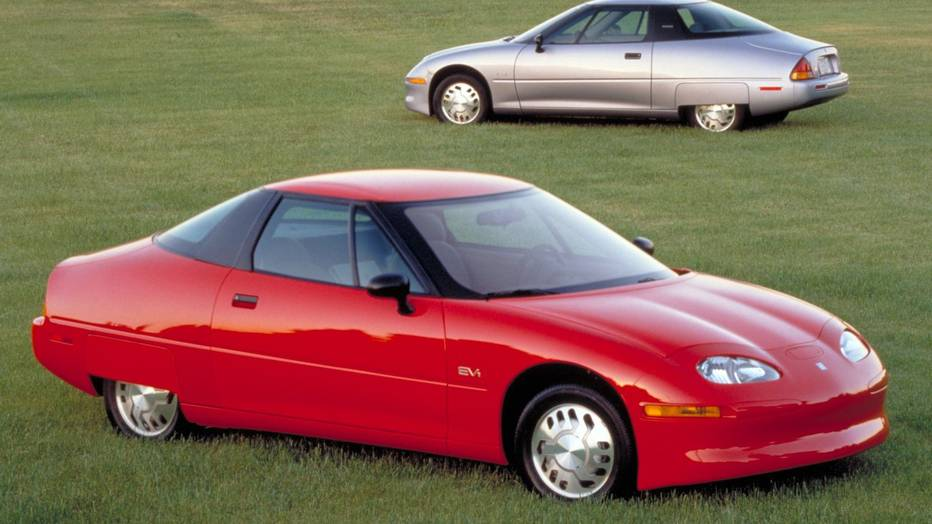
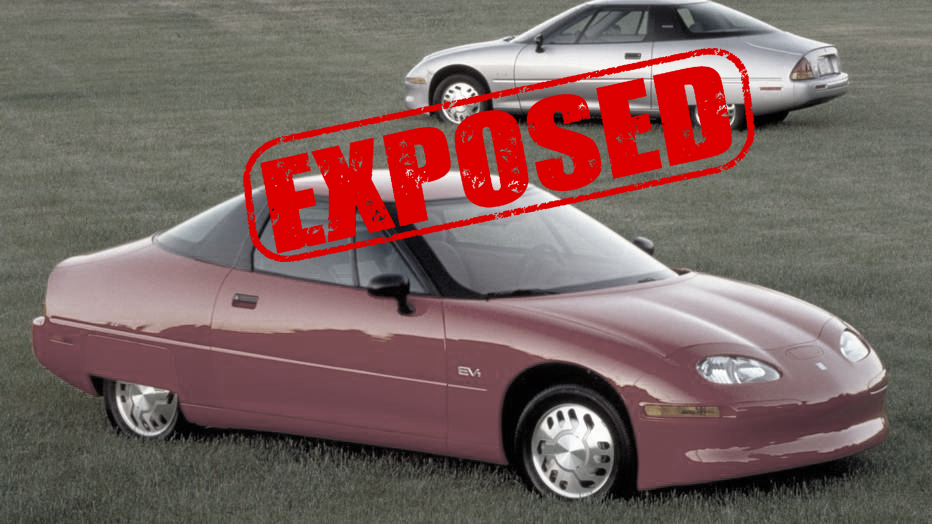
JIC 430
Snow is still afoot

diff --git a/root/pages/cancer.html b/root/pages/cancer.html
@@ -14,7 +14,7 @@
 	</header>
 	<script src="../js/parallax.js"></script>
 		<div id="content">
-			<h1 class="conspiracyHeader">FEMA Concentration Camps</h1>
+			<h1 class="conspiracyHeader">Electric Car Suppression</h1>
 		<p>Electric Cars were originally the most popular cars on the market in the early days. However, with the rise (and lowering price) of oil, the car was phased out. However, in California in the early 1990s the electric car was brought back and forcefully destroyed.</p>
 		<p>The electric car technology and other "non-gasoline" or "green" technology is being suppressed by oil companies because of the large fortune they are making off of petroleum and gasoline.</p>
 		<p>In the early 90s General Motors began developing the EV1, an electric car. When the the California Air Research Board (C.A.R.B.) found out about it they put a law in place forcing car companies to make 5% of their cars electric. This would gradually be raised up to 25% over many years. All companies followed GM's lead. Ford released the Th!nk and other companies, including Toyota, released electric cars as well. The EV1 became mildly popular, with celebrities such as Tom Hanks and Mel Gibson leasing them. They began to get a waiting list for the car. GM would then contact those on the list and tell them all of the limitations of the cars, something most retailers and car manufacturers would never do. And after a strainful wait, they got to lease the car; there was no option to buy it outright. The advertising campaign was small and less than great. A petition, initiated because a section of utility bills were going to pay for Charging Stations, was being made by Oil Companies. Strangely enough, General Motors and several other companies sued C.A.R.B. for making the law forcing them to make the cars they already were making. Llyod president of the C.A.R.B., an environmentalist, took away the law citing Hydrogen fuel as the way of the future. All companies began viciously destroying all the electric cars they built and not letting any of their customers buy them. All the EV1's were destroyed by General Motors except for several which were deactivated and sent to museums.</p>

diff --git a/root/pages/capricorn.html b/root/pages/capricorn.html
@@ -1,7 +1,7 @@
 <!DOCTYPE html>
 <html>
 <head>
-	<title>Jesus Had a Wife and Kids</title>
+	<title>Jesus Had a Wife and Child</title>
 	<script src="https://code.jquery.com/jquery-3.3.1.min.js"
   integrity="sha256-FgpCb/KJQlLNfOu91ta32o/NMZxltwRo8QtmkMRdAu8="
   crossorigin="anonymous"></script>
@@ -14,10 +14,8 @@
 	</header>
 	<script src="../js/parallax.js"></script>
 		<div id="content">
-			<h1 class="conspiracyHeader">FEMA Concentration Camps</h1>
-		<p>Mass internment facilities have been built across the continental United States by the Federal Emergency Management Agency (FEMA), in preparation for a future declaration of martial law.</p>
-		<p>The camps come complete with barbed wire fences straight out of World War II, boxcars for moving people around, and plastic coffins for burying them.</p>
-		<p>Additionally, a contingency plan (Rex 84) drafted in part by Oliver North calling for the suspension of the Constitution and the detainment of citizens in the event of a national crisis. Has been linked to a 1970 document by Louis Giuffrida (years later, the director of FEMA) calling for the establishment of martial law in the event of an uprising by African American militants and the internment of millions of African Americans.</p>
-		</div>
+			<h1 class="conspiracyHeader">Jesus Had a Wife and Child</h1>
+		<p>Jesus married Mary Magdalene, had one or more children, and those children or their descendants emigrated to what is now southern France.  According to writings from the Gnostic Gospels, discovered in 1945. In the Gospel of Philip, Mary Magdalene, who is referred to as Jesus' koinonos, a Greek term for "companion" or "partner," is depicted as being closer to Jesus than any other apostle.</p>
+		<p>In an exchange between Peter and Mary, he admits to her that "the Saviour loved you above all other women". A tense moment in the scripture that seems to portray the jealousy that the other apostles might have felt for Mary's relationship with Jesus. The only other evidence used to support the theory is a mention of Jesus kissing Mary often.</p>
 </body>
 </html>

diff --git a/root/style.css b/root/style.css
@@ -513,7 +513,7 @@ header {
     /*accross the whole screen*/
     width: 100%;
     height: 300%;
-    background-image: url('./Images/Aries-FEMA/FEMA-3.jpg');
+    background-image: url('./Images/Cancer-Car-Suppression/Car-1.jpg');
     background-repeat: no-repeat;
     background-size: cover;
     background-position: center;
@@ -525,7 +525,7 @@ header {
     /*accross the whole screen*/
     width: 100%;
     height: 100%;
-    background-image: url('./Images/Aries-FEMA/FEMA-3.jpg');
+    background-image: url('./Images/Cancer-Car-Suppression/Car-1.jpg');
     background-repeat: no-repeat;
     background-size: cover;
     background-position: center;
@@ -539,7 +539,7 @@ header {
     /*accross the whole screen*/
     width: 100%;
     height: 300%;
-    background-image: url('./Images/Aries-FEMA/FEMA-3.jpg');
+    background-image: url('./Images/Capricorn-Jesus-Wife-And-Kids/jesus-wife.jpg');
     background-repeat: no-repeat;
     background-size: cover;
     background-position: center;
@@ -551,7 +551,7 @@ header {
     /*accross the whole screen*/
     width: 100%;
     height: 100%;
-    background-image: url('./Images/Aries-FEMA/FEMA-3.jpg');
+    background-image: url('./Images/Capricorn-Jesus-Wife-And-Kids/jesus-wife.jpg');
     background-repeat: no-repeat;
     background-size: cover;
     background-position: center;
